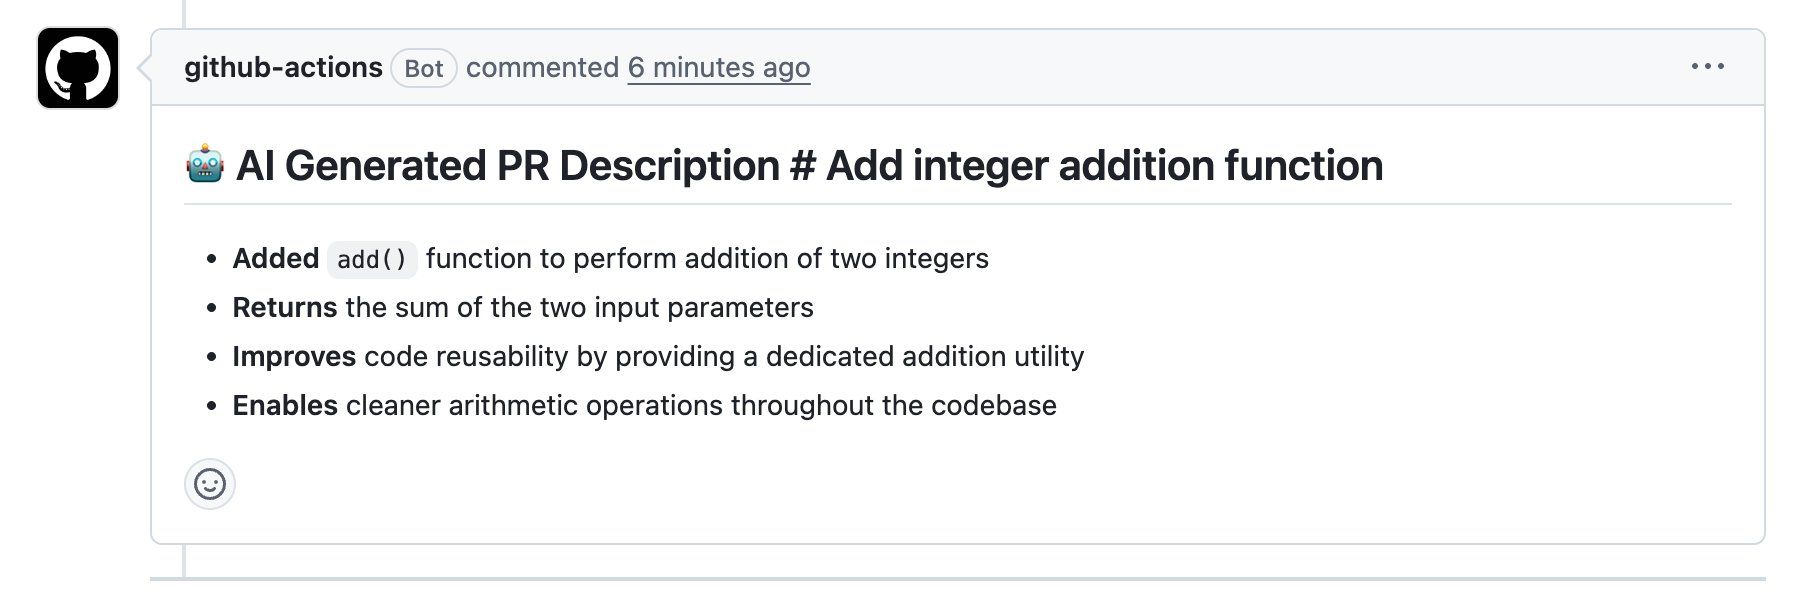
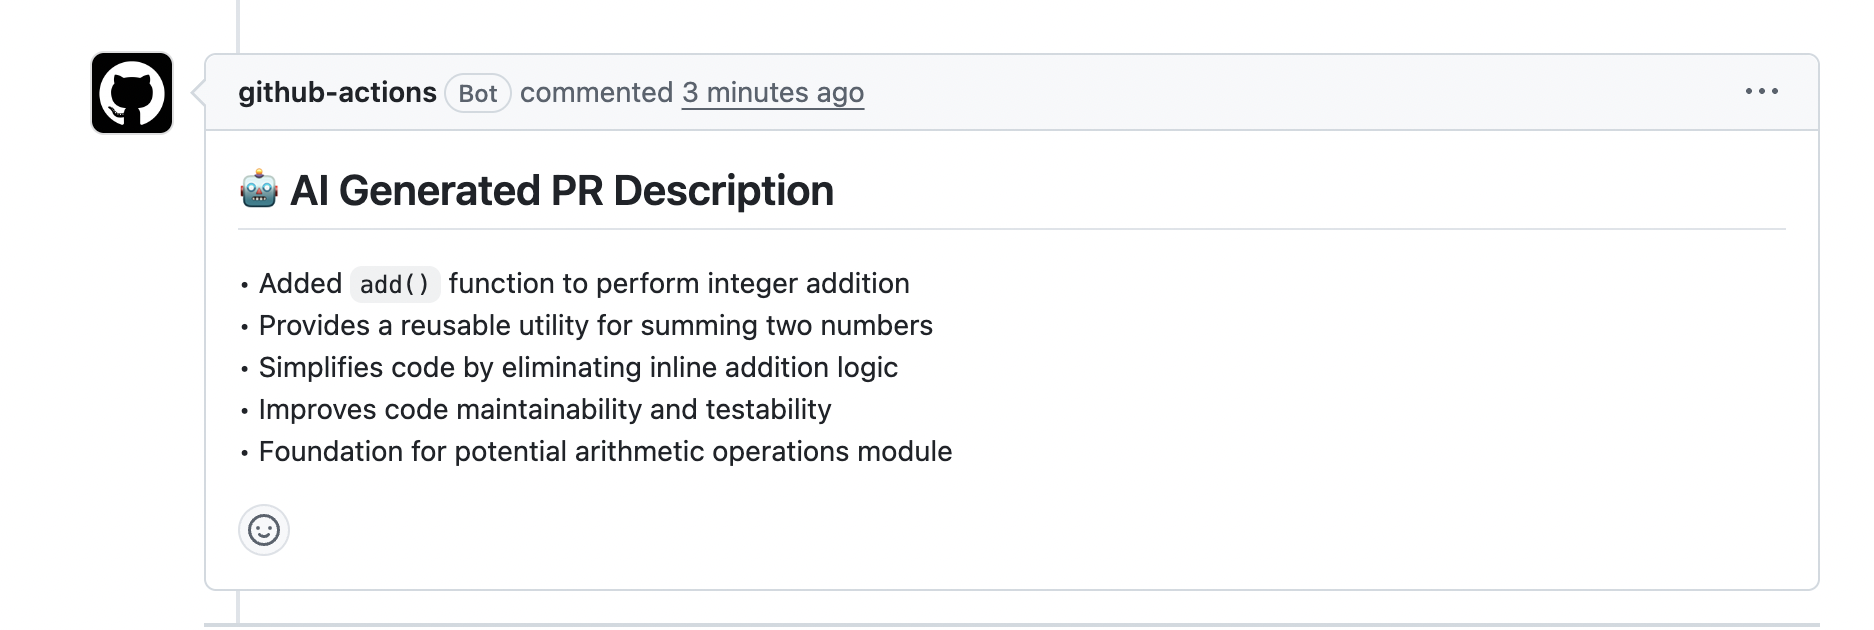
Update Readme (#2)

diff --git a/README.md b/README.md
@@ -35,7 +35,7 @@ Post generated description as a PR comment
 
 **1. Clone the repo**
 ```bash
-git clone https://github.com/MedhaReddy/llm-pr-description-generator.git
+git clone https://github.com/medhaships/llm-pr-description-generator.git
 cd llm-pr-description-generator
 ```
 
@@ -52,10 +52,10 @@ Open a pull request. The workflow triggers automatically and posts a description
 
 ## What I Learned
 
-- LLM API calls are just HTTP POST requests — the complexity is in structuring the prompt, not the integration
-- GitHub Actions `$GITHUB_OUTPUT` requires a heredoc pattern for multi-line values like git diffs
-- Passing dynamic content through environment variables (instead of inline in YAML) avoids special character issues in shell and JavaScript contexts
-- `gh` CLI is simpler than `actions/github-script` for straightforward API calls — fewer moving parts
+- LLM API calls are just POST requests — the hard part is the prompt, not the integration
+- Multi-line values in `$GITHUB_OUTPUT` need heredoc syntax or they get truncated
+- Pass dynamic content via env vars, not inline YAML — special characters will break you
+- gh CLI beats `actions/github-script` for simple use cases — less ceremony
 
 ## Future Improvements
 
